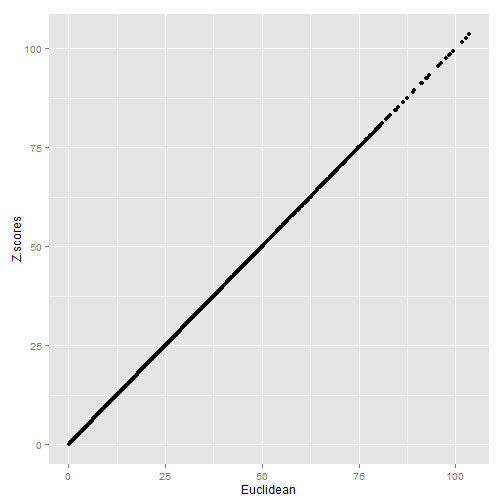
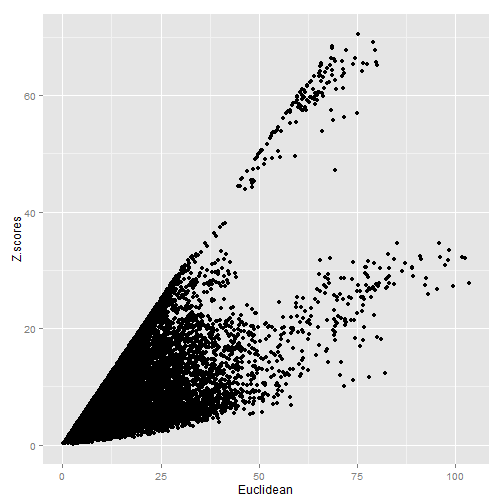
Trait compare Zscores

diff --git a/CompareMNTD.html b/CompareMNTD.html
@@ -238,7 +238,7 @@ means &lt;- apply(mon, 2, mean)
 
 Bill &lt;- mon$Bill - means[&quot;Bill&quot;]/sd(mon$Bill)
 Mass &lt;- mon$Mass - means[&quot;Mass&quot;]/sd(mon$Mass)
-WingChord &lt;- mon$WingChord - means[&quot;WingChord&quot;]/sd(mon$WingChord)
+WingChord &lt;- (mon$WingChord - means[&quot;WingChord&quot;])/sd(mon$WingChord)
 
 z.scores &lt;- data.frame(Bill, Mass, WingChord)
 rownames(z.scores) &lt;- rownames(mon)
@@ -281,7 +281,7 @@ mantel(d.euclid, d.pca)
 ## 
 ## Upper quantiles of permutations (null model):
 ##    90%    95%  97.5%    99% 
-## 0.0665 0.0980 0.1290 0.1545 
+## 0.0564 0.0915 0.1449 0.1870 
 ## 
 ## Based on 999 permutations
 </code></pre>
@@ -295,12 +295,12 @@ mantel(d.euclid, d.pca)
 ## Call:
 ## mantel(xdis = d.pca, ydis = d.zscores) 
 ## 
-## Mantel statistic r:    1 
+## Mantel statistic r: 0.656 
 ##       Significance: 0.001 
 ## 
 ## Upper quantiles of permutations (null model):
 ##    90%    95%  97.5%    99% 
-## 0.0611 0.0976 0.1384 0.1899 
+## 0.0545 0.0849 0.1215 0.2510 
 ## 
 ## Based on 999 permutations
 </code></pre>
@@ -318,8 +318,8 @@ mantel(d.euclid, d.pca)
 ##       Significance: 0.001 
 ## 
 ## Upper quantiles of permutations (null model):
-##   90%   95% 97.5%   99% 
-## 0.073 0.115 0.157 0.197 
+##    90%    95%  97.5%    99% 
+## 0.0583 0.0999 0.1436 0.2040 
 ## 
 ## Based on 999 permutations
 </code></pre>
@@ -335,12 +335,12 @@ mantel(d.dend, d.dend.ward)
 ## Call:
 ## mantel(xdis = d.dend, ydis = d.dend.ward) 
 ## 
-## Mantel statistic r: 0.629 
+## Mantel statistic r: 0.701 
 ##       Significance: 0.001 
 ## 
 ## Upper quantiles of permutations (null model):
 ##    90%    95%  97.5%    99% 
-## 0.0181 0.0237 0.0323 0.0363 
+## 0.0375 0.0502 0.0634 0.0730 
 ## 
 ## Based on 999 permutations
 </code></pre>
@@ -356,12 +356,12 @@ mantel(d.dend, d.euclid)
 ## Call:
 ## mantel(xdis = d.dend, ydis = d.euclid) 
 ## 
-## Mantel statistic r: 0.733 
+## Mantel statistic r: 0.48 
 ##       Significance: 0.001 
 ## 
 ## Upper quantiles of permutations (null model):
 ##    90%    95%  97.5%    99% 
-## 0.0393 0.0867 0.1220 0.1488 
+## 0.0542 0.0729 0.0954 0.1499 
 ## 
 ## Based on 999 permutations
 </code></pre>
@@ -387,14 +387,14 @@ dat.cast &lt;- cast(na.omit(dat), X1 + X2 ~ L1)
 ggplot(dat.cast, aes(Euclidean, Z.scores)) + geom_point()
 </code></pre>
 
[2 lines of base64/hex data omitted]
 
 <pre><code class="r">
 # Euclid v Complete Linkage
 ggplot(dat.cast, aes(Z.scores, Complete.Dendrogram)) + geom_point()
 </code></pre>
 
[2 lines of base64/hex data omitted]
 
 <pre><code class="r">
 # Its the very unrelated taxa that are most difficult to force into a

diff --git a/CompareMNTD.md b/CompareMNTD.md
@@ -72,7 +72,7 @@ means <- apply(mon, 2, mean)
 
 Bill <- mon$Bill - means["Bill"]/sd(mon$Bill)
 Mass <- mon$Mass - means["Mass"]/sd(mon$Mass)
-WingChord <- mon$WingChord - means["WingChord"]/sd(mon$WingChord)
+WingChord <- (mon$WingChord - means["WingChord"])/sd(mon$WingChord)
 
 z.scores <- data.frame(Bill, Mass, WingChord)
 rownames(z.scores) <- rownames(mon)
@@ -128,7 +128,7 @@ mantel(d.euclid, d.pca)
 ## 
 ## Upper quantiles of permutations (null model):
 ##    90%    95%  97.5%    99% 
-## 0.0665 0.0980 0.1290 0.1545 
+## 0.0564 0.0915 0.1449 0.1870 
 ## 
 ## Based on 999 permutations
 ```
@@ -144,12 +144,12 @@ mantel(d.pca, d.zscores)
 ## Call:
 ## mantel(xdis = d.pca, ydis = d.zscores) 
 ## 
-## Mantel statistic r:    1 
+## Mantel statistic r: 0.656 
 ##       Significance: 0.001 
 ## 
 ## Upper quantiles of permutations (null model):
 ##    90%    95%  97.5%    99% 
-## 0.0611 0.0976 0.1384 0.1899 
+## 0.0545 0.0849 0.1215 0.2510 
 ## 
 ## Based on 999 permutations
 ```
@@ -169,8 +169,8 @@ mantel(d.euclid, d.pca)
 ##       Significance: 0.001 
 ## 
 ## Upper quantiles of permutations (null model):
-##   90%   95% 97.5%   99% 
-## 0.073 0.115 0.157 0.197 
+##    90%    95%  97.5%    99% 
+## 0.0583 0.0999 0.1436 0.2040 
 ## 
 ## Based on 999 permutations
 ```
@@ -188,12 +188,12 @@ mantel(d.dend, d.dend.ward)
 ## Call:
 ## mantel(xdis = d.dend, ydis = d.dend.ward) 
 ## 
-## Mantel statistic r: 0.629 
+## Mantel statistic r: 0.701 
 ##       Significance: 0.001 
 ## 
 ## Upper quantiles of permutations (null model):
 ##    90%    95%  97.5%    99% 
-## 0.0181 0.0237 0.0323 0.0363 
+## 0.0375 0.0502 0.0634 0.0730 
 ## 
 ## Based on 999 permutations
 ```
@@ -211,12 +211,12 @@ mantel(d.dend, d.euclid)
 ## Call:
 ## mantel(xdis = d.dend, ydis = d.euclid) 
 ## 
-## Mantel statistic r: 0.733 
+## Mantel statistic r: 0.48 
 ##       Significance: 0.001 
 ## 
 ## Upper quantiles of permutations (null model):
 ##    90%    95%  97.5%    99% 
-## 0.0393 0.0867 0.1220 0.1488 
+## 0.0542 0.0729 0.0954 0.1499 
 ## 
 ## Based on 999 permutations
 ```
